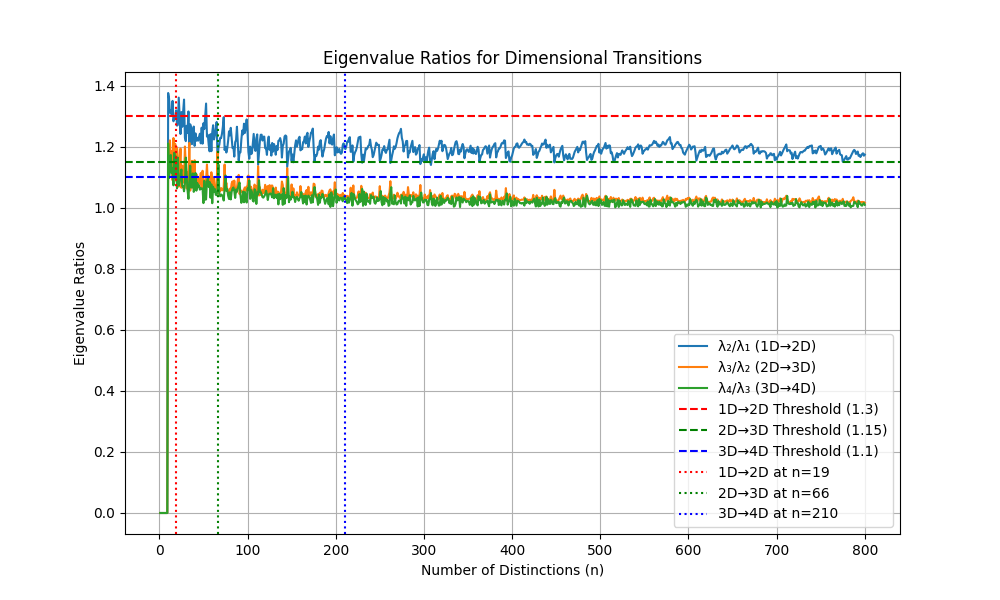
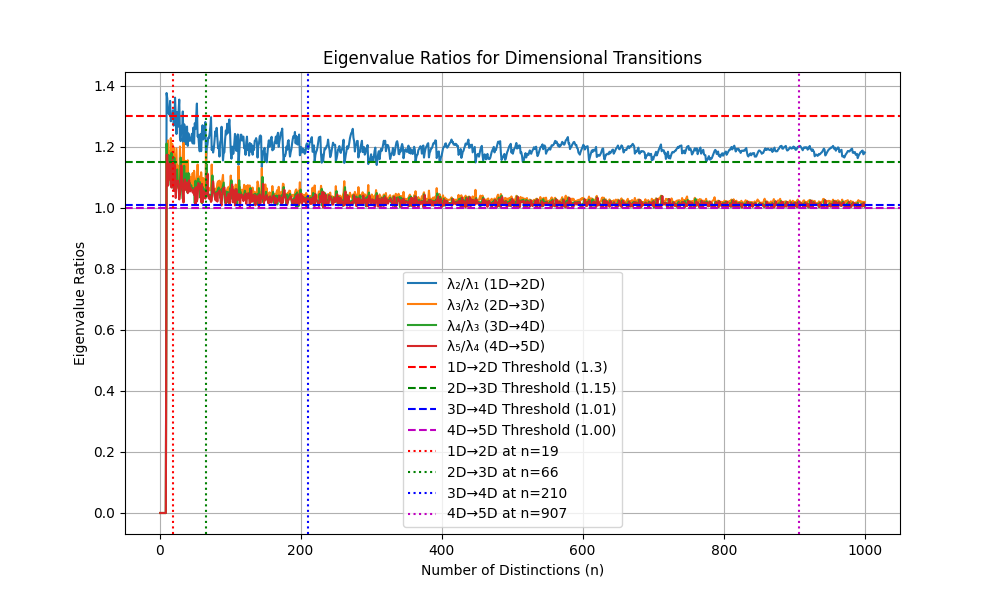
modified:   GU_DIM_Trans.py modified:   eigenvalue_ratios.png modified:   golomb_ruler_growth.png modified:   informational_curvature.png modified:   mutual_information_matrix.png

diff --git a/GU_DIM_Trans.py b/GU_DIM_Trans.py
@@ -100,7 +100,7 @@ def compute_metrics(G):
     return d_min, l_info, R_n, W
 
 def compute_embedding(G, dim):
-    """Compute spectral embedding in 2D, 3D, or 4D using Laplacian eigenvectors"""
+    """Compute spectral embedding in 2D, 3D, 4D, or 5D using Laplacian eigenvectors"""
     n = len(G)
     if n < 2:
         return np.zeros((n, dim))
@@ -112,7 +112,7 @@ def compute_embedding(G, dim):
     
     try:
         # Get eigenvectors for smallest non-zero eigenvalues (skip λ0)
-        _, eigenvectors = eigh(L, eigvals_only=False, subset_by_index=[1, dim])
+        _, eigenvectors = eigh(L, eigvals_only=False, subset_by_index=[1, min(dim + 1, n)])
         return eigenvectors
     except Exception as e:
         print(f"Error in compute_embedding for dim={dim}: {e}")
@@ -121,34 +121,37 @@ def compute_embedding(G, dim):
 def check_transitions(G, d_min, l_info, R_n):
     n = len(G)
     if n < 10:
-        return False, False, False, 0.0, 0.0, 0.0
+        return False, False, False, False, 0.0, 0.0, 0.0, 0.0
 
     try:
         _, _, _, W = compute_metrics(G)
         D = np.diag(np.sum(W, axis=1))
         L = D - W 
                                                                
-        eigenvalues = eigh(L, eigvals_only=True, subset_by_index=[0, 4])
-        λ0, λ1, λ2, λ3, λ4 = eigenvalues
+        eigenvalues = eigh(L, eigvals_only=True, subset_by_index=[0, 5])
+        λ0, λ1, λ2, λ3, λ4, λ5 = eigenvalues
 
         λ1 = max(λ1, 1e-8)
         λ2 = max(λ2, 1e-8)
         λ3 = max(λ3, 1e-8)
         λ4 = max(λ4, 1e-8)
+        λ5 = max(λ5, 1e-8)
 
         r1 = λ2 / λ1  # For 1D→2D
         r2 = λ3 / λ2  # For 2D→3D
         r3 = λ4 / λ3  # For 3D→4D
+        r4 = λ5 / λ4  # For 4D→5D
 
         transition_2D = (r1 > 1.3 and R_n > 1.3)
         transition_3D = (r2 > 1.15 and R_n > 2.2)
         transition_4D = (r3 > 1.01 and R_n > 3.0)
+        transition_5D = (r4 > 1.00 and R_n > 4.0)
 
-        return transition_2D, transition_3D, transition_4D, r1, r2, r3
+        return transition_2D, transition_3D, transition_4D, transition_5D, r1, r2, r3, r4
                                                                                                    
     except Exception as e:
         print("Error in check_transitions:", e)
-        return False, False, False, 0.0, 0.0, 0.0
+        return False, False, False, False, 0.0, 0.0, 0.0, 0.0
 
 def validate_golomb(G):
     """Validate that G is a Golomb ruler (all pairwise differences are unique)"""
@@ -164,7 +167,7 @@ def validate_golomb(G):
 def plot_results(G_full, results, metrics_history):
     """Generate and display graphical outputs for Golomb ruler, mutual information, eigenvalues, transitions, and embeddings"""
     n_max = len(G_full)
-    ns, d_mins, l_infos, R_ns, r1s, r2s, r3s = metrics_history
+    ns, d_mins, l_infos, R_ns, r1s, r2s, r3s, r4s = metrics_history
 
     # Plot 1: Golomb Ruler Growth
     plt.figure(figsize=(10, 6))
@@ -195,15 +198,19 @@ def plot_results(G_full, results, metrics_history):
     plt.plot(ns, r1s, label='λ₂/λ₁ (1D→2D)')
     plt.plot(ns, r2s, label='λ₃/λ₂ (2D→3D)')
     plt.plot(ns, r3s, label='λ₄/λ₃ (3D→4D)')
+    plt.plot(ns, r4s, label='λ₅/λ₄ (4D→5D)')
     plt.axhline(y=1.3, color='r', linestyle='--', label='1D→2D Threshold (1.3)')
     plt.axhline(y=1.15, color='g', linestyle='--', label='2D→3D Threshold (1.15)')
-    plt.axhline(y=1.1, color='b', linestyle='--', label='3D→4D Threshold (1.1)')
+    plt.axhline(y=1.01, color='b', linestyle='--', label='3D→4D Threshold (1.01)')
+    plt.axhline(y=1.00, color='m', linestyle='--', label='4D→5D Threshold (1.00)')
     if results.get('2D') is not None:
         plt.axvline(x=results.get('2D'), color='r', linestyle=':', label=f'1D→2D at n={results.get("2D")}')
     if results.get('3D') is not None:
         plt.axvline(x=results.get('3D'), color='g', linestyle=':', label=f'2D→3D at n={results.get("3D")}')
     if results.get('4D') is not None:
         plt.axvline(x=results.get('4D'), color='b', linestyle=':', label=f'3D→4D at n={results.get("4D")}')
+    if results.get('5D') is not None:
+        plt.axvline(x=results.get('5D'), color='m', linestyle=':', label=f'4D→5D at n={results.get("5D")}')
     plt.xlabel('Number of Distinctions (n)')
     plt.ylabel('Eigenvalue Ratios')
     plt.title('Eigenvalue Ratios for Dimensional Transitions')
@@ -219,12 +226,15 @@ def plot_results(G_full, results, metrics_history):
     plt.axhline(y=1.3, color='r', linestyle='--', label='1D→2D Threshold (1.3)')
     plt.axhline(y=2.2, color='g', linestyle='--', label='2D→3D Threshold (2.2)')
     plt.axhline(y=3.0, color='b', linestyle='--', label='3D→4D Threshold (3.0)')
+    plt.axhline(y=4.0, color='m', linestyle='--', label='4D→5D Threshold (4.0)')
     if results.get('2D') is not None:
         plt.axvline(x=results.get('2D'), color='r', linestyle=':', label=f'1D→2D at n={results.get("2D")}')
     if results.get('3D') is not None:
         plt.axvline(x=results.get('3D'), color='g', linestyle=':', label=f'2D→3D at n={results.get("3D")}')
     if results.get('4D') is not None:
         plt.axvline(x=results.get('4D'), color='b', linestyle=':', label=f'3D→4D at n={results.get("4D")}')
+    if results.get('5D') is not None:
+        plt.axvline(x=results.get('5D'), color='m', linestyle=':', label=f'4D→5D at n={results.get("5D")}')
     plt.xlabel('Number of Distinctions (n)')
     plt.ylabel('Informational Curvature (R_n)')
     plt.title('Informational Curvature Evolution')
@@ -267,30 +277,35 @@ def plot_results(G_full, results, metrics_history):
 
 def print_summary(results, metrics_history):
     """Print a summary table of essential calculated values"""
-    ns, d_mins, l_infos, R_ns, r1s, r2s, r3s = metrics_history
+    ns, d_mins, l_infos, R_ns, r1s, r2s, r3s, r4s = metrics_history
     print("\nSummary of Essential Calculated Values:")
-    print("-" * 60)
-    print(f"{'n':>5} | {'d_min':>8} | {'l_info':>8} | {'R_n':>8} | {'λ₂/λ₁':>8} | {'λ₃/λ₂':>8} | {'λ₄/λ₃':>8}")
-    print("-" * 60)
+    print("-" * 70)
+    print(f"{'n':>5} | {'d_min':>8} | {'l_info':>8} | {'R_n':>8} | {'λ₂/λ₁':>8} | {'λ₃/λ₂':>8} | {'λ₄/λ₃':>8} | {'λ₅/λ₄':>8}")
+    print("-" * 70)
     
     # Print at 2D transition
     if results["2D"] is not None:
         idx = results["2D"] - 1
-        print(f"{ns[idx]:>5} | {d_mins[idx]:>8.3f} | {l_infos[idx]:>8.3f} | {R_ns[idx]:>8.3f} | {r1s[idx]:>8.3f} | {r2s[idx]:>8.3f} | {r3s[idx]:>8.3f} (2D Transition)")
+        print(f"{ns[idx]:>5} | {d_mins[idx]:>8.3f} | {l_infos[idx]:>8.3f} | {R_ns[idx]:>8.3f} | {r1s[idx]:>8.3f} | {r2s[idx]:>8.3f} | {r3s[idx]:>8.3f} | {r4s[idx]:>8.3f} (2D Transition)")
     
     # Print at 3D transition
     if results["3D"] is not None:
         idx = results["3D"] - 1
-        print(f"{ns[idx]:>5} | {d_mins[idx]:>8.3f} | {l_infos[idx]:>8.3f} | {R_ns[idx]:>8.3f} | {r1s[idx]:>8.3f} | {r2s[idx]:>8.3f} | {r3s[idx]:>8.3f} (3D Transition)")
+        print(f"{ns[idx]:>5} | {d_mins[idx]:>8.3f} | {l_infos[idx]:>8.3f} | {R_ns[idx]:>8.3f} | {r1s[idx]:>8.3f} | {r2s[idx]:>8.3f} | {r3s[idx]:>8.3f} | {r4s[idx]:>8.3f} (3D Transition)")
     
     # Print at 4D transition
     if results["4D"] is not None:
         idx = results["4D"] - 1
-        print(f"{ns[idx]:>5} | {d_mins[idx]:>8.3f} | {l_infos[idx]:>8.3f} | {R_ns[idx]:>8.3f} | {r1s[idx]:>8.3f} | {r2s[idx]:>8.3f} | {r3s[idx]:>8.3f} (4D Transition)")
+        print(f"{ns[idx]:>5} | {d_mins[idx]:>8.3f} | {l_infos[idx]:>8.3f} | {R_ns[idx]:>8.3f} | {r1s[idx]:>8.3f} | {r2s[idx]:>8.3f} | {r3s[idx]:>8.3f} | {r4s[idx]:>8.3f} (4D Transition)")
+    
+    # Print at 5D transition
+    if results["5D"] is not None:
+        idx = results["5D"] - 1
+        print(f"{ns[idx]:>5} | {d_mins[idx]:>8.3f} | {l_infos[idx]:>8.3f} | {R_ns[idx]:>8.3f} | {r1s[idx]:>8.3f} | {r2s[idx]:>8.3f} | {r3s[idx]:>8.3f} | {r4s[idx]:>8.3f} (5D Transition)")
     
     # Print at final n
     idx = len(ns) - 1
-    print(f"{ns[idx]:>5} | {d_mins[idx]:>8.3f} | {l_infos[idx]:>8.3f} | {R_ns[idx]:>8.3f} | {r1s[idx]:>8.3f} | {r2s[idx]:>8.3f} | {r3s[idx]:>8.3f} (Final)")
+    print(f"{ns[idx]:>5} | {d_mins[idx]:>8.3f} | {l_infos[idx]:>8.3f} | {R_ns[idx]:>8.3f} | {r1s[idx]:>8.3f} | {r2s[idx]:>8.3f} | {r3s[idx]:>8.3f} | {r4s[idx]:>8.3f} (Final)")
 
 def print_validation(G, results):
     """Print enhanced validation parameters to confirm compliance with the framework"""
@@ -308,23 +323,24 @@ def print_validation(G, results):
     if results["2D"] is not None:
         G_2D = G[:results["2D"]]
         d_min, l_info, R_n, W = compute_metrics(G_2D)
-        _, _, _, r1, r2, r3 = check_transitions(G_2D, d_min, l_info, R_n)
+        _, _, _, _, r1, r2, r3, r4 = check_transitions(G_2D, d_min, l_info, R_n)
         
         # Compute energy functional (Axiom V)
         n = len(G_2D)
-        d_ij = 1 / (1 + W)          
+        d_ij = 1 / (1 + W)
         np.fill_diagonal(d_ij, np.inf)
         E_n = np.sum(np.abs(1 / d_ij[d_ij < np.inf]**2 - 1 / l_info**2)) / 2
         
         # Compute spectral gaps
         D = np.diag(np.sum(W, axis=1))
         L = D - W
-        eigenvalues = eigh(L, eigvals_only=True, subset_by_index=[0, 4])
-        λ0, λ1, λ2, λ3, λ4 = eigenvalues
+        eigenvalues = eigh(L, eigvals_only=True, subset_by_index=[0, 5])
+        λ0, λ1, λ2, λ3, λ4, λ5 = eigenvalues
         gap1 = λ1
         gap2 = λ2 - λ1
         gap3 = λ3 - λ2
         gap4 = λ4 - λ3
+        gap5 = λ5 - λ4
         
         # Compute embedding distortion in 2D
         embedding_2D = compute_embedding(G_2D, 2)
@@ -336,14 +352,14 @@ def print_validation(G, results):
         print(f"  λ₂/λ₁ = {r1:.3f} (> 1.3: {'Valid' if r1 > 1.3 else 'Invalid'})")
         print(f"  R_n = {R_n:.3f} (> 1.3: {'Valid' if R_n > 1.3 else 'Invalid'})")
         print(f"  Energy Functional (Axiom V): E_n = {E_n:.3f} (>= 0: {'Valid' if E_n >= 0 else 'Invalid'})")
-        print(f"  Spectral Gaps (Annex H): λ₁ = {gap1:.3f}, λ₂-λ₁ = {gap2:.3f}, λ₃-λ₂ = {gap3:.3f}, λ₄-λ₃ = {gap4:.3f}")
+        print(f"  Spectral Gaps (Annex H): λ₁ = {gap1:.3f}, λ₂-λ₁ = {gap2:.3f}, λ₃-λ₂ = {gap3:.3f}, λ₄-λ₃ = {gap4:.3f}, λ₅-λ₄ = {gap5:.3f}")
         print(f"  2D Embedding Distortion (Annex D): {distortion:.3f}")
     
     # Validate 2D→3D transition
     if results["3D"] is not None:
         G_3D = G[:results["3D"]]
         d_min, l_info, R_n, W = compute_metrics(G_3D)
-        _, _, _, r1, r2, r3 = check_transitions(G_3D, d_min, l_info, R_n)
+        _, _, _, _, r1, r2, r3, r4 = check_transitions(G_3D, d_min, l_info, R_n)
         
         # Compute energy functional
         n = len(G_3D)
@@ -354,12 +370,13 @@ def print_validation(G, results):
         # Compute spectral gaps
         D = np.diag(np.sum(W, axis=1))
         L = D - W
-        eigenvalues = eigh(L, eigvals_only=True, subset_by_index=[0, 4])
-        λ0, λ1, λ2, λ3, λ4 = eigenvalues
+        eigenvalues = eigh(L, eigvals_only=True, subset_by_index=[0, 5])
+        λ0, λ1, λ2, λ3, λ4, λ5 = eigenvalues
         gap1 = λ1
         gap2 = λ2 - λ1
         gap3 = λ3 - λ2
         gap4 = λ4 - λ3
+        gap5 = λ5 - λ4
         
         # Compute embedding distortion in 3D
         embedding_3D = compute_embedding(G_3D, 3)
@@ -371,14 +388,14 @@ def print_validation(G, results):
         print(f"  λ₃/λ₂ = {r2:.3f} (> 1.15: {'Valid' if r2 > 1.15 else 'Invalid'})")
         print(f"  R_n = {R_n:.3f} (> 2.2: {'Valid' if R_n > 2.2 else 'Invalid'})")
         print(f"  Energy Functional (Axiom V): E_n = {E_n:.3f} (>= 0: {'Valid' if E_n >= 0 else 'Invalid'})")
-        print(f"  Spectral Gaps (Annex H): λ₁ = {gap1:.3f}, λ₂-λ₁ = {gap2:.3f}, λ₃-λ₂ = {gap3:.3f}, λ₄-λ₃ = {gap4:.3f}")
+        print(f"  Spectral Gaps (Annex H): λ₁ = {gap1:.3f}, λ₂-λ₁ = {gap2:.3f}, λ₃-λ₂ = {gap3:.3f}, λ₄-λ₃ = {gap4:.3f}, λ₅-λ₄ = {gap5:.3f}")
         print(f"  3D Embedding Distortion (Annex D): {distortion:.3f}")
     
     # Validate 3D→4D transition
     if results["4D"] is not None:
         G_4D = G[:results["4D"]]
         d_min, l_info, R_n, W = compute_metrics(G_4D)
-        _, _, _, r1, r2, r3 = check_transitions(G_4D, d_min, l_info, R_n)
+        _, _, _, _, r1, r2, r3, r4 = check_transitions(G_4D, d_min, l_info, R_n)
         
         # Compute energy functional
         n = len(G_4D)
@@ -389,12 +406,13 @@ def print_validation(G, results):
         # Compute spectral gaps
         D = np.diag(np.sum(W, axis=1))
         L = D - W
-        eigenvalues = eigh(L, eigvals_only=True, subset_by_index=[0, 4])
-        λ0, λ1, λ2, λ3, λ4 = eigenvalues
+        eigenvalues = eigh(L, eigvals_only=True, subset_by_index=[0, 5])
+        λ0, λ1, λ2, λ3, λ4, λ5 = eigenvalues
         gap1 = λ1
         gap2 = λ2 - λ1
         gap3 = λ3 - λ2
         gap4 = λ4 - λ3
+        gap5 = λ5 - λ4
         
         # Compute embedding distortion in 4D
         embedding_4D = compute_embedding(G_4D, 4)
@@ -406,12 +424,48 @@ def print_validation(G, results):
         print(f"  λ₄/λ₃ = {r3:.3f} (> 1.01: {'Valid' if r3 > 1.01 else 'Invalid'})")
         print(f"  R_n = {R_n:.3f} (> 3.0: {'Valid' if R_n > 3.0 else 'Invalid'})")
         print(f"  Energy Functional (Axiom V): E_n = {E_n:.3f} (>= 0: {'Valid' if E_n >= 0 else 'Invalid'})")
-        print(f"  Spectral Gaps (Annex H): λ₁ = {gap1:.3f}, λ₂-λ₁ = {gap2:.3f}, λ₃-λ₂ = {gap3:.3f}, λ₄-λ₃ = {gap4:.3f}")
+        print(f"  Spectral Gaps (Annex H): λ₁ = {gap1:.3f}, λ₂-λ₁ = {gap2:.3f}, λ₃-λ₂ = {gap3:.3f}, λ₄-λ₃ = {gap4:.3f}, λ₅-λ₄ = {gap5:.3f}")
         print(f"  4D Embedding Distortion (Annex D): {distortion:.3f}")
+    
+    # Validate 4D→5D transition
+    if results["5D"] is not None:
+        G_5D = G[:results["5D"]]
+        d_min, l_info, R_n, W = compute_metrics(G_5D)
+        _, _, _, _, r1, r2, r3, r4 = check_transitions(G_5D, d_min, l_info, R_n)
+        
+        # Compute energy functional
+        n = len(G_5D)
+        d_ij = 1 / (1 + W)
+        np.fill_diagonal(d_ij, np.inf)
+        E_n = np.sum(np.abs(1 / d_ij[d_ij < np.inf]**2 - 1 / l_info**2)) / 2
+																	 
+        # Compute spectral gaps
+        D = np.diag(np.sum(W, axis=1))
+        L = D - W
+        eigenvalues = eigh(L, eigvals_only=True, subset_by_index=[0, 5])
+        λ0, λ1, λ2, λ3, λ4, λ5 = eigenvalues
+        gap1 = λ1
+        gap2 = λ2 - λ1
+        gap3 = λ3 - λ2
+        gap4 = λ4 - λ3
+        gap5 = λ5 - λ4
+        
+        # Compute embedding distortion in 5D
+        embedding_5D = compute_embedding(G_5D, 5)
+        euclidean_dists = np.sqrt(np.sum((embedding_5D[:, None] - embedding_5D)**2, axis=2))
+        np.fill_diagonal(d_ij, 0)
+        distortion = np.mean((euclidean_dists - d_ij)**2 / (d_ij**2 + 1e-16))
+        
+        print(f"\n4D→5D Transition at n={results['5D']}:")
+        print(f"  λ₅/λ₄ = {r4:.3f} (> 1.00: {'Valid' if r4 > 1.00 else 'Invalid'})")
+        print(f"  R_n = {R_n:.3f} (> 4.0: {'Valid' if R_n > 4.0 else 'Invalid'})")
+        print(f"  Energy Functional (Axiom V): E_n = {E_n:.3f} (>= 0: {'Valid' if E_n >= 0 else 'Invalid'})")
+        print(f"  Spectral Gaps (Annex H): λ₁ = {gap1:.3f}, λ₂-λ₁ = {gap2:.3f}, λ₃-λ₂ = {gap3:.3f}, λ₄-λ₃ = {gap4:.3f}, λ₅-λ₄ = {gap5:.3f}")
+        print(f"  5D Embedding Distortion (Annex D): {distortion:.3f}")
 
 def simulate(n_max):
     """Efficient simulation with reused Golomb ruler prefix, enhanced with plotting and validation"""
-    results = {"2D": None, "3D": None, "4D": None}
+    results = {"2D": None, "3D": None, "4D": None, "5D": None}
     G_full = generate_golomb(n_max)
     
     # Store metrics for plotting
@@ -422,11 +476,12 @@ def simulate(n_max):
     r1s = []
     r2s = []
     r3s = []
+    r4s = []
 
     for n in range(1, n_max + 1):
         G = G_full[:n]
         d_min, l_info, R_n, _ = compute_metrics(G)
-        t2d, t3d, t4d, r1, r2, r3 = check_transitions(G, d_min, l_info, R_n)
+        t2d, t3d, t4d, t5d, r1, r2, r3, r4 = check_transitions(G, d_min, l_info, R_n)
 
         ns.append(n)
         d_mins.append(d_min)
@@ -435,6 +490,7 @@ def simulate(n_max):
         r1s.append(r1)
         r2s.append(r2)
         r3s.append(r3)
+        r4s.append(r4)
 
         if t2d and results["2D"] is None:
             results["2D"] = n                       
@@ -442,25 +498,28 @@ def simulate(n_max):
             results["3D"] = n
         if t4d and results["3D"] is not None and results["4D"] is None:
             results["4D"] = n
+        if t5d and results["4D"] is not None and results["5D"] is None:
+            results["5D"] = n
 
         if n % 10 == 0:
             print(f"Progress: n={n}, d_min={d_min:.3f}, l_info={l_info:.3f}, R_n={R_n:.3f}")
     
     # Generate and display plots
-    plot_results(G_full, results, (ns, d_mins, l_infos, R_ns, r1s, r2s, r3s))
+    plot_results(G_full, results, (ns, d_mins, l_infos, R_ns, r1s, r2s, r3s, r4s))
     
     # Print summary
-    print_summary(results, (ns, d_mins, l_infos, R_ns, r1s, r2s, r3s))
+    print_summary(results, (ns, d_mins, l_infos, R_ns, r1s, r2s, r3s, r4s))
     
     # Print validation
     print_validation(G_full, results)
     
     return results
 
-# Run simulation
+# Run simulation                                                                  
 print("Starting simulation...")
-results = simulate(800)
+results = simulate(1000)
 print("\nFinal Results:")
 print(f"1D→2D transition at n={results['2D']}")
 print(f"2D→3D transition at n={results['3D']}")
 print(f"3D→4D transition at n={results['4D']}")
+print(f"4D→5D transition at n={results['5D']}")
